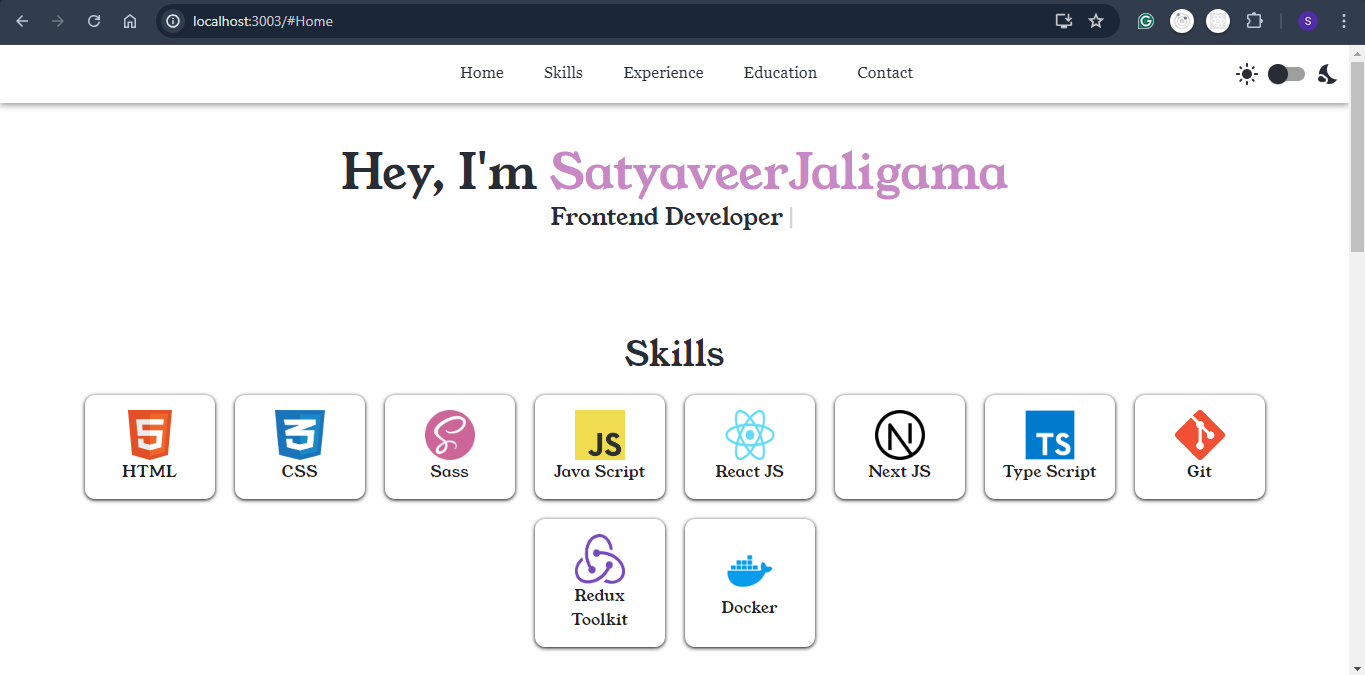
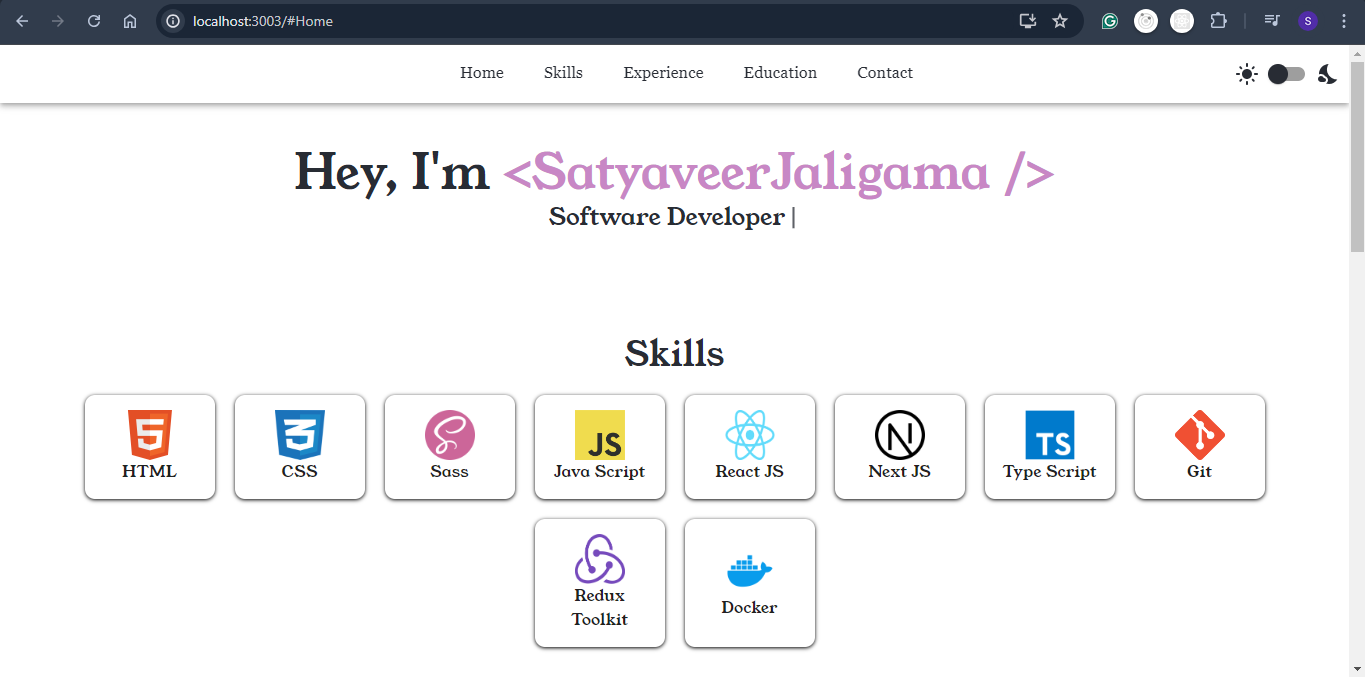
Changed images and role

diff --git a/src/Components/Intro.jsx b/src/Components/Intro.jsx
@@ -11,10 +11,10 @@ const HeroComponent = () => {
                     loop
                     onInit={(typewriter) => {
                         typewriter
-                            .typeString("Frontend Developer")
+                            .typeString("Software Developer")
                             .pauseFor(1000)
                             .deleteAll()
-                            .typeString("Frontend Developer")
+                            .typeString("Software Developer")
                             .start();
                     }}
                 />

diff --git a/src/Components/ExperienceCard.jsx b/src/Components/ExperienceCard.jsx
@@ -14,7 +14,7 @@ import LaptopMacIcon from '@mui/icons-material/LaptopMac';
 const ExperienceCard = () => {
   const experienceInfo = [
     {
-      role: "Frontend Developer",
+      role: "Software Developer",
       employmentType: "Full time",
       companyName: "Zuno General Insurance",
       tenure: "Aug 2022 - Present",
